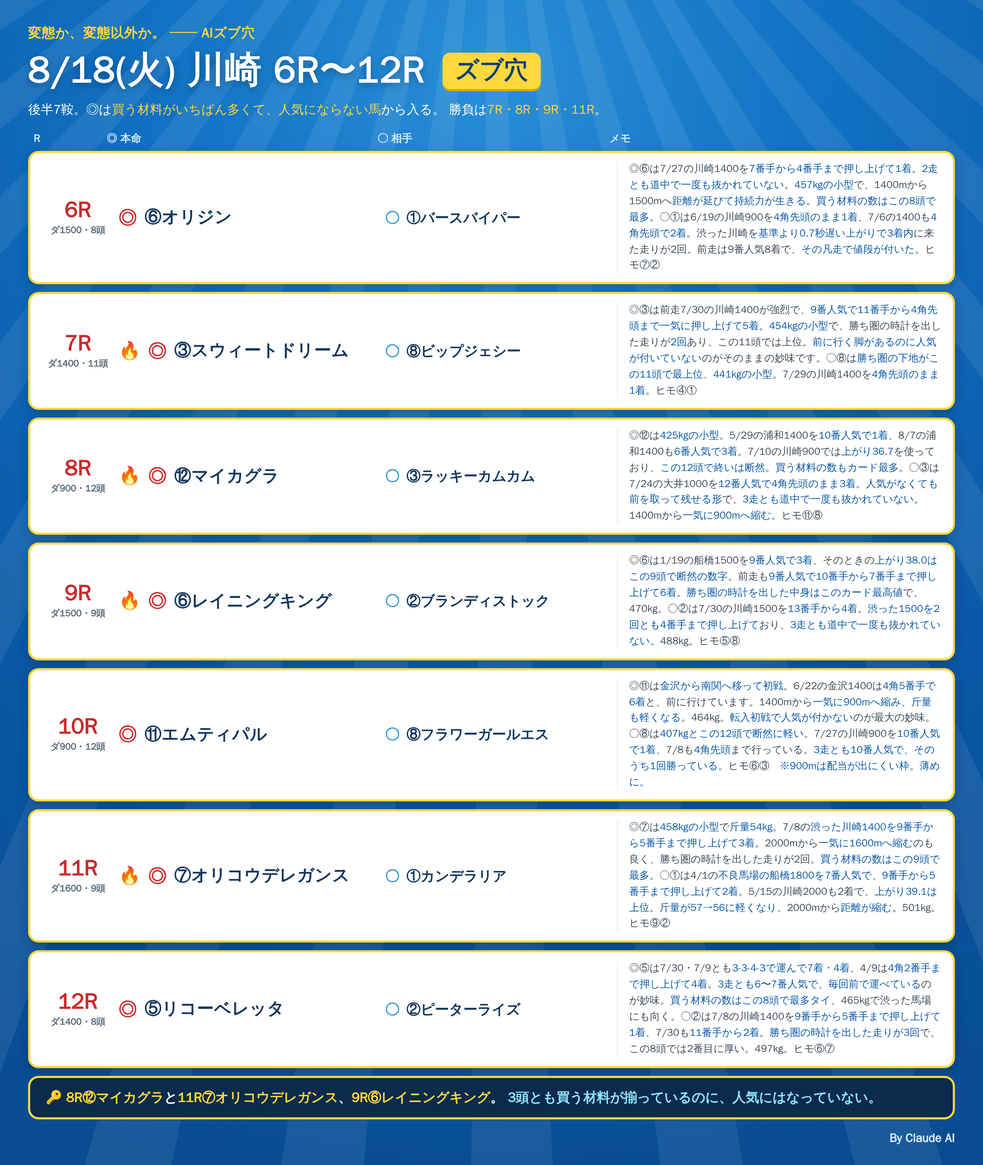
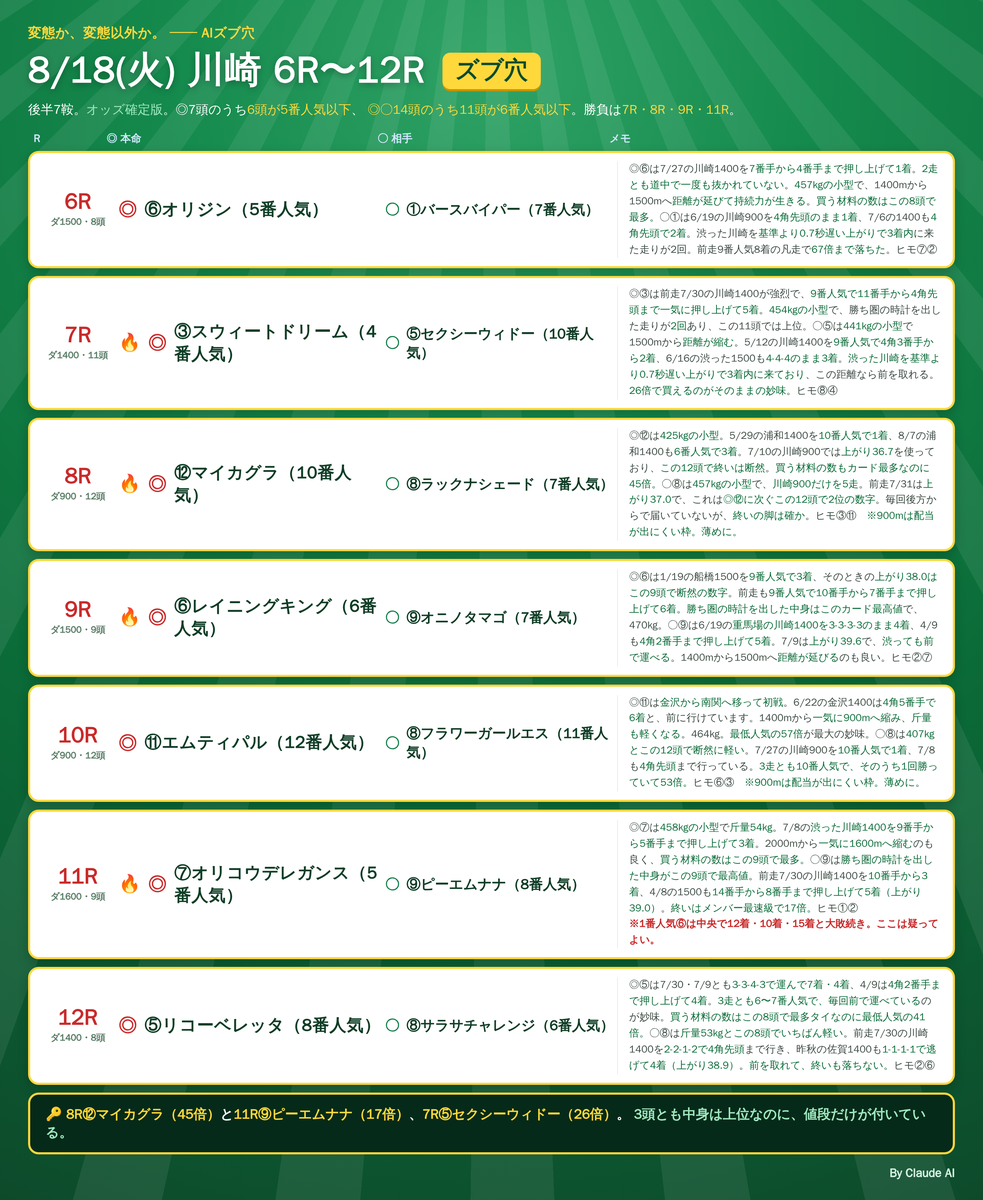
notes: 8/18 川崎 オッズ確定版（後半○を5R差し替え）＋緑テーマに統一
Claude-Session: https://claude.ai/code/session_01RoHscZkr96FNaxQWvUqgEw

diff --git a/notes/live/2026-08-18/kawasaki_triple_umatan.html b/notes/live/2026-08-18/kawasaki_triple_umatan.html
@@ -1,19 +1,19 @@
 <!doctype html><html><head><meta charset="utf-8"><style>
   * { margin:0; padding:0; box-sizing:border-box; font-family:'WenQuanYi Zen Hei',sans-serif; }
-  body { background:#0a1b2e; padding:0; }
-  .card { width:1300px; background:#0f1f33; overflow:hidden; }
-  .brand { background:linear-gradient(90deg,#ff9e64,#ffd54a,#7ee0a0); color:#0f1f33; font-weight:900; font-size:22px; letter-spacing:1px; padding:16px 34px; }
+  body { background:#072418; padding:0; }
+  .card { width:1300px; background:#0c2e1d; overflow:hidden; }
+  .brand { background:linear-gradient(90deg,#ff9e64,#ffd54a,#7ee0a0); color:#0c2e1d; font-weight:900; font-size:22px; letter-spacing:1px; padding:16px 34px; }
   .head { padding:22px 34px 4px; }
   .title { color:#ffd54a; font-size:34px; font-weight:900; }
-  .title .r{color:#ff9e64;} .title .badge{display:inline-block;background:#17304a;color:#7ee0a0;font-size:15px;font-weight:800;padding:4px 12px;border-radius:14px;vertical-align:middle;margin-left:12px;}
-  .sub { color:#9db4cf; font-size:17px; margin-top:8px; } .sub b{color:#e8f0fa;}
-  .bias { display:inline-block; margin-top:10px; background:#13283a; border:1px solid #2a4560; border-radius:10px; padding:8px 15px; color:#bfe6f0; font-size:15px; }
+  .title .r{color:#ff9e64;} .title .badge{display:inline-block;background:#124030;color:#7ee0a0;font-size:15px;font-weight:800;padding:4px 12px;border-radius:14px;vertical-align:middle;margin-left:12px;}
+  .sub { color:#9dcfb4; font-size:17px; margin-top:8px; } .sub b{color:#e8f0fa;}
+  .bias { display:inline-block; margin-top:10px; background:#103525; border:1px solid #2a6045; border-radius:10px; padding:8px 15px; color:#bfe6f0; font-size:15px; }
   .bias b{color:#ffd54a;} .bias .g{color:#7ee0a0;}
 
-  .race { margin:14px 34px 0; border-left:5px solid #24384f; padding:4px 0 4px 22px; }
+  .race { margin:14px 34px 0; border-left:5px solid #24503a; padding:4px 0 4px 22px; }
   .race.r10{border-left-color:#ffd54a;} .race.r11{border-left-color:#5cc8e0;} .race.r12{border-left-color:#ffd54a;}
   .rh { display:flex; align-items:baseline; gap:12px; }
-  .rn { color:#e8f0fa; font-size:24px; font-weight:900; } .rd { color:#9db4cf; font-size:15px; }
+  .rn { color:#e8f0fa; font-size:24px; font-weight:900; } .rd { color:#9dcfb4; font-size:15px; }
   .rbadge { margin-left:auto; font-size:14px; font-weight:800; padding:4px 12px; border-radius:13px; background:rgba(126,224,160,.16); color:#7ee0a0; }
   .line { display:flex; align-items:center; gap:14px; margin-top:10px; }
   .tag { flex:0 0 128px; font-size:15px; font-weight:900; }
@@ -22,83 +22,83 @@
   .chip { display:flex; align-items:center; gap:9px; padding:8px 15px; border-radius:11px; }
   .chip .no { font-size:18px; font-weight:900; min-width:26px; text-align:center; }
   .chip .nm { font-size:19px; font-weight:800; color:#e8f0fa; }
-  .chip .meta { font-size:13.5px; color:#9db4cf; }
+  .chip .meta { font-size:13.5px; color:#9dcfb4; }
   .honmei { background:#3a2a12; border:2px solid #ffb454; } .honmei .no{color:#ffd54a;}
   .hoken { background:transparent; border:2px dashed #d05a72; } .hoken .no{color:#ff8fa0;} .hoken .meta{color:#e8a8b4;}
-  .aite { background:#14273b; border:1px solid #274058; } .aite .no{color:#5cc8e0;}
+  .aite { background:#123524; border:1px solid #275840; } .aite .no{color:#5cc8e0;}
   .aite.ana { border-color:#ff9e64; } .aite.ana .meta{color:#ffc79a;}
-  .rc { color:#9db4cf; font-size:14px; margin:8px 0 2px; line-height:1.5; } .rc b{color:#ffd54a;} .rc .o{color:#ff9e64;}
+  .rc { color:#9dcfb4; font-size:14px; margin:8px 0 2px; line-height:1.5; } .rc b{color:#ffd54a;} .rc .o{color:#ff9e64;}
 
   .buys { display:flex; gap:22px; margin:20px 34px 0; }
   .buy { flex:1; border-radius:14px; padding:16px 22px; }
-  .buy.hon { background:#13283a; border:1px solid #2a4560; }
+  .buy.hon { background:#103525; border:1px solid #2a6045; }
   .buy.hok { background:#241624; border:1px dashed #d05a72; }
   .buy .bt { font-size:18px; font-weight:900; } .buy.hon .bt{color:#ffd54a;} .buy.hok .bt{color:#ff8fa0;}
   .buy .bl { color:#e8f0fa; font-size:20px; font-weight:800; margin-top:9px; letter-spacing:.5px; line-height:1.6; }
   .buy .bl .a{color:#ffd54a;} .buy .bl .s{color:#5cc8e0;}
-  .buy .bn { color:#9db4cf; font-size:13.5px; margin-top:7px; } .buy .bn b{color:#7ee0a0;}
-  .foot { display:flex; justify-content:space-between; align-items:center; margin-top:18px; padding:14px 34px; background:#0a1626; color:#5f7590; font-size:14px; }
-  .foot b { color:#9db4cf; }
+  .buy .bn { color:#9dcfb4; font-size:13.5px; margin-top:7px; } .buy .bn b{color:#7ee0a0;}
+  .foot { display:flex; justify-content:space-between; align-items:center; margin-top:18px; padding:14px 34px; background:#08241a; color:#6b9080; font-size:14px; }
+  .foot b { color:#9dcfb4; }
 </style></head><body>
 <div class="card">
   <div class="brand">変態か、変態以外か。 ── トリプル馬単（ズブ穴◎ ＋ 前残り保険）</div>
   <div class="head">
     <div class="title">川崎 8/18(火) ／ トリプル馬単 <span class="r">10R→11R→12R</span> <span class="badge">キャリー中</span></div>
-    <div class="sub"><b>1着本命＝人気薄で前を取れる馬</b>／<b>1着保険＝実力軸1位の堅い側</b>／2着は手広く。</div>
-    <div class="bias">⚠ <b>オッズ未開放</b>・想定良。<span class="g">1着本命＝前回開催と同じ「実力軸で下位（＝人気を被らない）× 買う材料が最多 × 下地・小型」で選定。参考：前回の川崎は48レース中40レースで4角3番手以内の馬が勝った（83%）。</span></div>
+    <div class="sub"><b>1着本命＝買う材料が最多で人気にならない馬</b>／<b>1着保険＝1〜2番人気の堅い側</b>／2着は手広く。</div>
+    <div class="bias">✅ <b>オッズ確定版</b>・想定良。<span class="g">1着本命3頭は <b>12番人気(57.9倍)／5番人気(10.0倍)／8番人気(41.4倍)</b>。参考：前回の川崎は48レース中40レースで4角3番手以内の馬が勝った（83%）。</span></div>
   </div>
 
   <div class="race r10">
-    <div class="rh"><span class="rn">10R</span><span class="rd">ダ900 ・ 12頭　紅蓮賞 Ｃ１選定馬</span><span class="rbadge">◎軸⑪エムティパル（買う材料が12頭で最多タイ・転入初戦）</span></div>
+    <div class="rh"><span class="rn">10R</span><span class="rd">ダ900 ・ 12頭　紅蓮賞 Ｃ１選定馬</span><span class="rbadge">◎軸⑪エムティパル（12番人気・57.9倍）</span></div>
     <div class="line"><div class="tag"><span class="t1">1着 本命</span></div><div class="chips">
       <div class="chip honmei"><span class="no">11</span><span class="nm">エムティパル</span><span class="meta">エッジ4で12頭最多タイ・464kg・斤量減・1400→900の大幅短縮／<b>金沢から南関へ移って初戦＝人気が付かない</b></span></div></div></div>
     <div class="line"><div class="tag"><span class="t2">1着 保険</span></div><div class="chips">
-      <div class="chip hoken"><span class="no">3</span><span class="nm">エースクイーン</span><span class="meta">3走とも1番人気（1着・3着・1着）・443kgの小型・4角先頭＝堅い側の保険</span></div></div></div>
+      <div class="chip hoken"><span class="no">2</span><span class="nm">アタゴテンジン</span><span class="meta"><b>1番人気2.9倍</b>・3走とも4角先頭（2着・3着・1着）＝堅い側の保険</span></div></div></div>
     <div class="line"><div class="tag"><span class="t3">2着 →</span></div><div class="chips">
-      <div class="chip aite ana"><span class="no">8</span><span class="nm">フラワーガールエス</span><span class="meta">407kg＝12頭で断然に軽い・斤53kg／7/27を<b>10番人気で1着</b>・3走とも10番人気</span></div>
-      <div class="chip aite ana"><span class="no">6</span><span class="nm">キョウエイハゴロモ</span><span class="meta">7/27を9番人気で4角先頭から3着・減量51kgで最軽量斤量</span></div>
-      <div class="chip aite"><span class="no">5</span><span class="nm">クレイスアバンティ</span><span class="meta">439kg・減量51kg・実力軸6位</span></div>
-      <div class="chip aite"><span class="no">4</span><span class="nm">プレストヴィーナス</span><span class="meta">436kgの小型・3走とも4角2番手以内</span></div></div></div>
+      <div class="chip aite ana"><span class="no">8</span><span class="nm">フラワーガールエス</span><span class="meta"><b>11番人気53.8倍</b>・407kg＝12頭で断然に軽い・斤53kg／7/27を<b>10番人気で1着</b></span></div>
+      <div class="chip aite ana"><span class="no">6</span><span class="nm">キョウエイハゴロモ</span><span class="meta"><b>10番人気35.0倍</b>・7/27を9番人気で4角先頭から3着・減量51kg</span></div>
+      <div class="chip aite"><span class="no">5</span><span class="nm">クレイスアバンティ</span><span class="meta">5番人気9.1倍・439kg・減量51kg</span></div>
+      <div class="chip aite"><span class="no">3</span><span class="nm">エースクイーン</span><span class="meta">2番人気3.5倍・3走とも1番人気で1着3着1着・443kgの小型</span></div></div></div>
     <div class="rc">⑪は<b>転入初戦で人気が付かないのが最大の妙味</b>だが、中身は薄い。<span class="o">2着筆頭の⑧は3走とも10番人気で、そのうち1回勝っている</span>＝900mでいちばん配当になる形なので、<b>⑪→⑧と⑧→⑪の両にらみでよい</b>。保険は3走とも1番人気の③。</div>
   </div>
 
   <div class="race r11">
-    <div class="rh"><span class="rn">11R</span><span class="rd">ダ1600 ・ 9頭　涼風特別 Ｂ２二</span><span class="rbadge">◎軸⑦オリコウデレガンス（買う材料が9頭で最多・458kgの小型）</span></div>
+    <div class="rh"><span class="rn">11R</span><span class="rd">ダ1600 ・ 9頭　涼風特別 Ｂ２二</span><span class="rbadge">◎軸⑦オリコウデレガンス（5番人気・10.0倍）</span></div>
     <div class="line"><div class="tag"><span class="t1">1着 本命</span></div><div class="chips">
       <div class="chip honmei"><span class="no">7</span><span class="nm">オリコウデレガンス</span><span class="meta">エッジ7で9頭最多・下地8.0本物2・458kgの小型・斤54kg／7/8の渋った1400を9番手から5番手まで押し上げて3着・2000→1600の短縮</span></div></div></div>
     <div class="line"><div class="tag"><span class="t2">1着 保険</span></div><div class="chips">
       <div class="chip hoken"><span class="no">3</span><span class="nm">スカイアクロス</span><span class="meta">実力軸1位45.1%・前走7/30の同コースを4角5番手から2着＝堅い側の保険</span></div></div></div>
     <div class="line"><div class="tag"><span class="t3">2着 →</span></div><div class="chips">
-      <div class="chip aite ana"><span class="no">1</span><span class="nm">カンデラリア</span><span class="meta">エッジ6・下地9.2本物2／4/1の不良の船橋1800を<b>7番人気で2着</b>・斤57→56</span></div>
-      <div class="chip aite ana"><span class="no">9</span><span class="nm">ピーエムナナ</span><span class="meta">下地9.8＝<b>9頭で最高値</b>・本物2・461kg</span></div>
-      <div class="chip aite ana"><span class="no">8</span><span class="nm">デアシュトゥルム</span><span class="meta">3走とも4角先頭・6/19を9番人気3着・実力軸5位</span></div>
-      <div class="chip aite"><span class="no">2</span><span class="nm">ハナノウタゲ</span><span class="meta">本物3＝9頭で最多・下地7.8・521kg</span></div></div></div>
-    <div class="rc">⑦は<b>エッジ7でカード最多、下地も本物2で最上位級</b>。2000mからの大幅短縮と斤54kgが後押し。<span class="o">保険は実力軸1位45.1%の③</span>。2着は下地の厚い①⑨を厚く。</div>
+      <div class="chip aite ana"><span class="no">9</span><span class="nm">ピーエムナナ</span><span class="meta"><b>8番人気17.2倍</b>・下地9.8＝<b>9頭で最高値</b>／7/30を10番手から3着・4/8は14番手から8番手まで押し上げ5着</span></div>
+      <div class="chip aite ana"><span class="no">1</span><span class="nm">カンデラリア</span><span class="meta">4番人気8.8倍・エッジ6・下地9.2本物2／4/1の不良の船橋1800を<b>7番人気で2着</b></span></div>
+      <div class="chip aite ana"><span class="no">8</span><span class="nm">デアシュトゥルム</span><span class="meta"><b>7番人気14.9倍</b>・3走とも4角先頭・6/19を9番人気3着</span></div>
+      <div class="chip aite"><span class="no">4</span><span class="nm">エレファントラン</span><span class="meta">3番人気4.4倍・3走とも4角3番手以内・下地5.7本物2</span></div></div></div>
+    <div class="rc">⑦は<b>エッジ7でカード最多、下地も本物2で最上位級</b>。2000mからの大幅短縮と斤54kgが後押しで10.0倍。<span class="o">保険は2番人気の③</span>。<b class="o">1番人気⑥オペラプラージュは中央で12着・10着・15着と大敗続きの転入初戦で2.9倍＝ここは疑ってよい。</b></div>
   </div>
 
   <div class="race r12">
-    <div class="rh"><span class="rn">12R</span><span class="rd">ダ1400 ・ 8頭　凌霄花特別 Ｂ３一二三</span><span class="rbadge">◎軸⑤リコーベレッタ（毎回6〜7番人気で前を取れる）</span></div>
+    <div class="rh"><span class="rn">12R</span><span class="rd">ダ1400 ・ 8頭　凌霄花特別 Ｂ３一二三</span><span class="rbadge">◎軸⑤リコーベレッタ（8番人気＝最低人気・41.4倍）</span></div>
     <div class="line"><div class="tag"><span class="t1">1着 本命</span></div><div class="chips">
-      <div class="chip honmei"><span class="no">5</span><span class="nm">リコーベレッタ</span><span class="meta">465kg・買う材料は8頭で最多タイ／7/30・7/9とも3-3-4-3で運び、4/9は4角2番手まで押し上げ。<b>3走とも6〜7番人気</b></span></div></div></div>
+      <div class="chip honmei"><span class="no">5</span><span class="nm">リコーベレッタ</span><span class="meta"><b>8番人気＝最低人気の41.4倍</b>・465kg・買う材料は8頭で最多タイ／7/30・7/9とも3-3-4-3で運び、4/9は4角2番手まで押し上げ</span></div></div></div>
     <div class="line"><div class="tag"><span class="t2">1着 保険</span></div><div class="chips">
-      <div class="chip hoken"><span class="no">6</span><span class="nm">ジーティーアグリム</span><span class="meta"><b>3連勝中</b>・勝ち圏の下地が8頭で断然・4角先頭・道中で一度も抜かれていない＝堅い側の保険</span></div></div></div>
+      <div class="chip hoken"><span class="no">6</span><span class="nm">ジーティーアグリム</span><span class="meta"><b>1番人気2.5倍・3連勝中</b>・下地10.4本物4で8頭断然・4角先頭・道中で一度も抜かれていない＝堅い側の保険</span></div></div></div>
     <div class="line"><div class="tag"><span class="t3">2着 →</span></div><div class="chips">
-      <div class="chip aite ana"><span class="no">2</span><span class="nm">ピーターライズ</span><span class="meta">エッジ5・下地9.6本物3＝8頭で2番目に厚い／7/8を9番手から1着・7/30も11番手から2着</span></div>
-      <div class="chip aite ana"><span class="no">7</span><span class="nm">ナリノエンブレム</span><span class="meta">3走とも4角先頭で一度も抜かれず・上がりのブレ1.20が小さい</span></div>
-      <div class="chip aite ana"><span class="no">8</span><span class="nm">サラサチャレンジ</span><span class="meta">前走8番人気・4角先頭経験・斤53kg＝最大妙味</span></div>
-      <div class="chip aite"><span class="no">3</span><span class="nm">トウマ</span><span class="meta">464kg・下地4.9・3走とも掲示板圏内</span></div></div></div>
+      <div class="chip aite ana"><span class="no">8</span><span class="nm">サラサチャレンジ</span><span class="meta"><b>6番人気16.3倍</b>・斤53kgで8頭最軽量／7/30を2-2-1-2で4角先頭・昨秋の佐賀1400は逃げて4着（上がり38.9）</span></div>
+      <div class="chip aite ana"><span class="no">2</span><span class="nm">ピーターライズ</span><span class="meta">2番人気3.1倍・エッジ5・下地9.6本物3＝8頭で2番目／7/8を9番手から1着</span></div>
+      <div class="chip aite ana"><span class="no">7</span><span class="nm">ナリノエンブレム</span><span class="meta">3番人気6.5倍・3走とも4角先頭で一度も抜かれず・ブレ1.20</span></div>
+      <div class="chip aite"><span class="no">3</span><span class="nm">トウマ</span><span class="meta">4番人気7.0倍・464kg・下地4.9・3走とも掲示板圏内</span></div></div></div>
     <div class="rc">⑤は<b>毎回6〜7番人気なのに、毎回前で運べている</b>のが妙味。<span class="o">保険は3連勝中で下地断然の⑥</span>。8頭立てなので2着は絞りやすい。</div>
   </div>
 
   <div class="buys">
     <div class="buy hon"><div class="bt">▶ 本線（1着2頭 × 2着3頭）</div>
-      <div class="bl">10R <span class="a">⑪③</span>→<span class="s">⑧⑥⑤</span> ／ 11R <span class="a">⑦③</span>→<span class="s">①⑨⑧</span> ／ 12R <span class="a">⑤⑥</span>→<span class="s">②⑦⑧</span></div>
+      <div class="bl">10R <span class="a">⑪②</span>→<span class="s">⑧⑥③</span> ／ 11R <span class="a">⑦③</span>→<span class="s">⑨①⑧</span> ／ 12R <span class="a">⑤⑥</span>→<span class="s">⑧②⑦</span></div>
       <div class="bn">6×6×6＝<b>216点・10,800円</b>。1着を◎＋保険の2頭に割り、2着を3頭で受ける標準形（トリプル馬単は1点50円）。</div></div>
     <div class="buy hok"><div class="bt">▶ 絞り／総取り</div>
       <div class="bl">絞り 1着を<span class="a">⑪・⑦・⑤</span>に固定 → 3×3×3＝<span class="a">27点・1,350円</span><br>総取り 8×8×8＝<span class="a">512点・25,600円</span>（2着を各4頭）</div>
-      <div class="bn">10Rは900mで<b>配当が出にくい枠</b>（前回開催は人気薄62頭で3着内4頭）。絞るなら<b>10Rの1着を⑪⑧の2頭に組み替える</b>（⑧は3走とも10番人気で1勝）のが実務的。11R・12Rは2着を4頭まで広げてよい。</div></div>
+      <div class="bn">10Rは900mで<b>配当が出にくい枠</b>（前回開催は人気薄62頭で3着内4頭）。<b>10Rは⑪(57.9倍)と⑧(53.8倍)がどちらも2桁人気</b>。絞るなら1着を⑪⑧の2頭に組み替えるのが実務的。11R・12Rは2着を4頭まで広げてよい。</div></div>
   </div>
 
-  <div class="foot"><span>川崎 8/18 トリプル馬単 10R→11R→12R ／ 1着本命＝人気薄で前を取れる馬・1着保険＝実力軸1位</span><span><b>By Claude AI</b></span></div>
+  <div class="foot"><span>川崎 8/18 トリプル馬単 10R→11R→12R ／ オッズ確定版・1着本命＝12番人気/5番人気/8番人気</span><span><b>By Claude AI</b></span></div>
 </div>
 </body></html>

diff --git a/notes/live/2026-08-18/kawasaki_6_12.html b/notes/live/2026-08-18/kawasaki_6_12.html
@@ -1,8 +1,8 @@
 <!doctype html><html><head><meta charset="utf-8"><style>
   * { margin:0; padding:0; box-sizing:border-box; font-family:'WenQuanYi Zen Hei',sans-serif; }
-  body { background:#0a4f96; }
+  body { background:#0d4a2b; }
   .card { width:1400px; position:relative; overflow:hidden;
-          background:radial-gradient(circle at 50% 6%, #2a8fd8 0%, #1173c4 26%, #0a58a6 62%, #084b90 100%); padding:34px 40px 26px; }
+          background:radial-gradient(circle at 50% 6%, #2fa365 0%, #158a4d 26%, #0b6b38 62%, #0d4a2b 100%); padding:34px 40px 26px; }
   .rays { position:absolute; inset:-40% -10% -10% -10%; pointer-events:none;
           background:repeating-conic-gradient(from 0deg at 50% 10%,
             rgba(255,255,255,.075) 0deg 3.2deg, rgba(255,255,255,0) 3.2deg 7.4deg); }
@@ -12,9 +12,9 @@
   .titleline { position:relative; display:flex; align-items:center; margin-top:6px; }
   .titleline .bdg { position:absolute; left:50%; transform:translateX(-50%); }
   .title { color:#fff; font-size:52px; font-weight:900; letter-spacing:1px; text-shadow:0 3px 10px rgba(0,0,0,.28); }
-  .bdg { background:#ffd83b; color:#0a3f78; font-size:34px; font-weight:900; padding:3px 18px; border-radius:11px; box-shadow:0 3px 0 #d9a800; }
+  .bdg { background:#ffd83b; color:#0d4a2b; font-size:34px; font-weight:900; padding:3px 18px; border-radius:11px; box-shadow:0 3px 0 #c99400; }
   .lead { color:#fff; font-size:18px; font-weight:700; margin-top:9px; }
-  .lead .y{color:#ffd83b;} .lead .c{color:#8fe3ff;}
+  .lead .y{color:#ffd83b;} .lead .c{color:#9fe8bf;}
 
   .cols { display:flex; margin:20px 0 7px; padding:0 8px; color:#cfe8ff; font-size:15px; font-weight:800; }
   .cR{flex:0 0 104px;} .cH{flex:0 0 386px;} .cA{flex:0 0 330px;} .cM{flex:1;}
@@ -23,22 +23,23 @@
          margin-bottom:11px; padding:12px 16px; box-shadow:0 6px 16px rgba(0,0,0,.2); }
   .rN { flex:0 0 104px; display:flex; flex-direction:column; justify-content:center; align-items:center; }
   .rN .n { color:#c92a2a; font-size:31px; font-weight:900; line-height:1; }
-  .rN .d { color:#5a6b7d; font-size:13px; font-weight:800; margin-top:4px; }
+  .rN .d { color:#5a7d68; font-size:13px; font-weight:800; margin-top:4px; }
   .hm { flex:0 0 386px; display:flex; align-items:center; gap:11px; padding-left:6px; }
   .at { flex:0 0 330px; display:flex; align-items:center; gap:10px; }
   .mk { font-size:26px; font-weight:900; color:#c92a2a; }
-  .mk2 { font-size:20px; font-weight:900; color:#1b8fd0; }
-  .nm { font-size:24px; font-weight:900; color:#10375e; letter-spacing:.5px; }
-  .nm2 { font-size:20px; font-weight:900; color:#10375e; }
+  .mk2 { font-size:20px; font-weight:900; color:#0b7a45; }
+  .nm { font-size:24px; font-weight:900; color:#0f3d26; letter-spacing:.5px; }
+  .nm2 { font-size:20px; font-weight:900; color:#0f3d26; }
   .fire { font-size:25px; }
-  .memo { flex:1; color:#3c4a58; font-size:14.5px; line-height:1.58; padding-left:16px; border-left:1px solid #dfe8f0; align-self:center; }
-  .memo b { color:#0a58a6; } .memo .r { color:#c92a2a; font-weight:900; }
+  .memo { flex:1; color:#3c4a42; font-size:14.5px; line-height:1.58; padding-left:16px; border-left:1px solid #dfefe6; align-self:center; }
+  .memo b { color:#0b6b38; } .memo .r { color:#c92a2a; font-weight:900; }
 
-  .foot { margin-top:6px; background:#0b2b4d; border:3px solid #ffd83b; border-radius:15px;
+  .foot { margin-top:6px; background:#062a19; border:3px solid #ffd83b; border-radius:15px;
           padding:15px 22px; color:#fff; font-size:19px; font-weight:800; }
-  .foot .y{color:#ffd83b;} .foot .c{color:#8fe3ff;}
-  .sig { text-align:right; color:#dbeaf7; font-size:17px; font-weight:800; margin-top:16px; }
+  .foot .y{color:#ffd83b;} .foot .c{color:#9fe8bf;}
+  .sig { text-align:right; color:#d6f2e2; font-size:17px; font-weight:800; margin-top:16px; }
 </style></head>
+
 <body>
 <div class="card"><div class="rays"></div><div class="inner">
   <div class="kicker">変態か、変態以外か。 ── AIズブ穴</div>
@@ -46,62 +47,62 @@
     <div class="title">8/18(火) 川崎 6R〜12R</div>
     <div class="bdg">ズブ穴</div>
   </div>
-  <div class="lead">後半7鞍。◎は<span class="y">買う材料がいちばん多くて、人気にならない馬</span>から入る。
-  勝負は<span class="y">7R・8R・9R・11R</span>。</div>
+  <div class="lead">後半7鞍。<span class="c">オッズ確定版</span>。◎7頭のうち<span class="y">6頭が5番人気以下</span>、
+  <span class="y">◎○14頭のうち11頭が6番人気以下</span>。勝負は<span class="y">7R・8R・9R・11R</span>。</div>
 
   <div class="cols"><div class="cR">R</div><div class="cH">◎ 本命</div><div class="cA">○ 相手</div><div class="cM">メモ</div></div>
 
   <div class="row">
     <div class="rN"><div class="n">6R</div><div class="d">ダ1500・8頭</div></div>
-    <div class="hm"><span class="mk">◎</span><span class="nm">⑥オリジン</span></div>
-    <div class="at"><span class="mk2">○</span><span class="nm2">①バースバイパー</span></div>
-    <div class="memo">◎⑥は7/27の川崎1400を<b>7番手から4番手まで押し上げて1着</b>。<b>2走とも道中で一度も抜かれていない</b>。<b>457kgの小型</b>で、1400mから1500mへ<b>距離が延びて持続力が生きる</b>。<b>買う材料の数はこの8頭で最多。</b>○①は6/19の川崎900を<b>4角先頭のまま1着</b>、7/6の1400も<b>4角先頭で2着</b>。渋った川崎を<b>基準より0.7秒遅い上がりで3着内</b>に来た走りが2回。前走は9番人気8着で、<b>その凡走で値段が付いた</b>。ヒモ⑦②</div>
+    <div class="hm"><span class="mk">◎</span><span class="nm">⑥オリジン（5番人気）</span></div>
+    <div class="at"><span class="mk2">○</span><span class="nm2">①バースバイパー（7番人気）</span></div>
+    <div class="memo">◎⑥は7/27の川崎1400を<b>7番手から4番手まで押し上げて1着</b>。<b>2走とも道中で一度も抜かれていない</b>。<b>457kgの小型</b>で、1400mから1500mへ<b>距離が延びて持続力が生きる</b>。<b>買う材料の数はこの8頭で最多。</b>○①は6/19の川崎900を<b>4角先頭のまま1着</b>、7/6の1400も<b>4角先頭で2着</b>。渋った川崎を<b>基準より0.7秒遅い上がりで3着内</b>に来た走りが2回。前走9番人気8着の凡走で<b>67倍まで落ちた</b>。ヒモ⑦②</div>
   </div>
 
   <div class="row">
     <div class="rN"><div class="n">7R</div><div class="d">ダ1400・11頭</div></div>
-    <div class="hm"><span class="fire">🔥</span><span class="mk">◎</span><span class="nm">③スウィートドリーム</span></div>
-    <div class="at"><span class="mk2">○</span><span class="nm2">⑧ビップジェシー</span></div>
-    <div class="memo">◎③は前走7/30の川崎1400が強烈で、<b>9番人気で11番手から4角先頭まで一気に押し上げて5着</b>。<b>454kgの小型</b>で、勝ち圏の時計を出した走りが<b>2回</b>あり、この11頭では上位。<b>前に行く脚があるのに人気が付いていない</b>のがそのままの妙味です。○⑧は<b>勝ち圏の下地がこの11頭で最上位</b>、<b>441kgの小型</b>。7/29の川崎1400を<b>4角先頭のまま1着</b>。ヒモ④①</div>
+    <div class="hm"><span class="fire">🔥</span><span class="mk">◎</span><span class="nm">③スウィートドリーム（4番人気）</span></div>
+    <div class="at"><span class="mk2">○</span><span class="nm2">⑤セクシーウィドー（10番人気）</span></div>
+    <div class="memo">◎③は前走7/30の川崎1400が強烈で、<b>9番人気で11番手から4角先頭まで一気に押し上げて5着</b>。<b>454kgの小型</b>で、勝ち圏の時計を出した走りが<b>2回</b>あり、この11頭では上位。○⑤は<b>441kgの小型</b>で1500mから<b>距離が縮む</b>。5/12の川崎1400を<b>9番人気で4角3番手から2着</b>、6/16の渋った1500も<b>4-4-4のまま3着</b>。<b>渋った川崎を基準より0.7秒遅い上がりで3着内に来ており</b>、この距離なら前を取れる。<b>26倍で買えるのがそのままの妙味。</b>ヒモ⑧④</div>
   </div>
 
   <div class="row">
     <div class="rN"><div class="n">8R</div><div class="d">ダ900・12頭</div></div>
-    <div class="hm"><span class="fire">🔥</span><span class="mk">◎</span><span class="nm">⑫マイカグラ</span></div>
-    <div class="at"><span class="mk2">○</span><span class="nm2">③ラッキーカムカム</span></div>
-    <div class="memo">◎⑫は<b>425kgの小型</b>。5/29の浦和1400を<b>10番人気で1着</b>、8/7の浦和1400も<b>6番人気で3着</b>。7/10の川崎900では<b>上がり36.7</b>を使っており、<b>この12頭で終いは断然</b>。<b>買う材料の数もカード最多。</b>○③は7/24の大井1000を<b>12番人気で4角先頭のまま3着</b>。<b>人気がなくても前を取って残せる形</b>で、<b>3走とも道中で一度も抜かれていない</b>。1400mから<b>一気に900mへ縮む</b>。ヒモ⑪⑧</div>
+    <div class="hm"><span class="fire">🔥</span><span class="mk">◎</span><span class="nm">⑫マイカグラ（10番人気）</span></div>
+    <div class="at"><span class="mk2">○</span><span class="nm2">⑧ラックナシェード（7番人気）</span></div>
+    <div class="memo">◎⑫は<b>425kgの小型</b>。5/29の浦和1400を<b>10番人気で1着</b>、8/7の浦和1400も<b>6番人気で3着</b>。7/10の川崎900では<b>上がり36.7</b>を使っており、<b>この12頭で終いは断然</b>。<b>買う材料の数もカード最多なのに45倍。</b>○⑧は<b>457kgの小型</b>で、<b>川崎900だけを5走</b>。前走7/31は<b>上がり37.0</b>で、これは<b>◎⑫に次ぐこの12頭で2位の数字</b>。毎回後方からで届いていないが、<b>終いの脚は確か</b>。ヒモ③⑪　<b>※900mは配当が出にくい枠。薄めに。</b></div>
   </div>
 
   <div class="row">
     <div class="rN"><div class="n">9R</div><div class="d">ダ1500・9頭</div></div>
-    <div class="hm"><span class="fire">🔥</span><span class="mk">◎</span><span class="nm">⑥レイニングキング</span></div>
-    <div class="at"><span class="mk2">○</span><span class="nm2">②ブランディストック</span></div>
-    <div class="memo">◎⑥は1/19の船橋1500を<b>9番人気で3着</b>、そのときの<b>上がり38.0はこの9頭で断然の数字</b>。前走も<b>9番人気で10番手から7番手まで押し上げて6着</b>。<b>勝ち圏の時計を出した中身はこのカード最高値</b>で、470kg。○②は7/30の川崎1500を<b>13番手から4着</b>。<b>渋った1500を2回とも4番手まで押し上げて</b>おり、<b>3走とも道中で一度も抜かれていない</b>。488kg。ヒモ⑤⑧</div>
+    <div class="hm"><span class="fire">🔥</span><span class="mk">◎</span><span class="nm">⑥レイニングキング（6番人気）</span></div>
+    <div class="at"><span class="mk2">○</span><span class="nm2">⑨オニノタマゴ（7番人気）</span></div>
+    <div class="memo">◎⑥は1/19の船橋1500を<b>9番人気で3着</b>、そのときの<b>上がり38.0はこの9頭で断然の数字</b>。前走も<b>9番人気で10番手から7番手まで押し上げて6着</b>。<b>勝ち圏の時計を出した中身はこのカード最高値</b>で、470kg。○⑨は6/19の<b>重馬場の川崎1400を3-3-3-3のまま4着</b>、4/9も<b>4角2番手まで押し上げて5着</b>。7/9は<b>上がり39.6</b>で、<b>渋っても前で運べる</b>。1400mから1500mへ<b>距離が延びる</b>のも良い。ヒモ②⑦</div>
   </div>
 
   <div class="row">
     <div class="rN"><div class="n">10R</div><div class="d">ダ900・12頭</div></div>
-    <div class="hm"><span class="mk">◎</span><span class="nm">⑪エムティパル</span></div>
-    <div class="at"><span class="mk2">○</span><span class="nm2">⑧フラワーガールエス</span></div>
-    <div class="memo">◎⑪は<b>金沢から南関へ移って初戦</b>。6/22の金沢1400は<b>4角5番手で6着</b>と、前に行けています。1400mから<b>一気に900mへ縮み、斤量も軽くなる</b>。464kg。<b>転入初戦で人気が付かない</b>のが最大の妙味。○⑧は<b>407kgとこの12頭で断然に軽い</b>。7/27の川崎900を<b>10番人気で1着</b>、7/8も<b>4角先頭</b>まで行っている。<b>3走とも10番人気で、そのうち1回勝っている。</b>ヒモ⑥③　<b>※900mは配当が出にくい枠。薄めに。</b></div>
+    <div class="hm"><span class="mk">◎</span><span class="nm">⑪エムティパル（12番人気）</span></div>
+    <div class="at"><span class="mk2">○</span><span class="nm2">⑧フラワーガールエス（11番人気）</span></div>
+    <div class="memo">◎⑪は<b>金沢から南関へ移って初戦</b>。6/22の金沢1400は<b>4角5番手で6着</b>と、前に行けています。1400mから<b>一気に900mへ縮み、斤量も軽くなる</b>。464kg。<b>最低人気の57倍</b>が最大の妙味。○⑧は<b>407kgとこの12頭で断然に軽い</b>。7/27の川崎900を<b>10番人気で1着</b>、7/8も<b>4角先頭</b>まで行っている。<b>3走とも10番人気で、そのうち1回勝っていて53倍。</b>ヒモ⑥③　<b>※900mは配当が出にくい枠。薄めに。</b></div>
   </div>
 
   <div class="row">
     <div class="rN"><div class="n">11R</div><div class="d">ダ1600・9頭</div></div>
-    <div class="hm"><span class="fire">🔥</span><span class="mk">◎</span><span class="nm">⑦オリコウデレガンス</span></div>
-    <div class="at"><span class="mk2">○</span><span class="nm2">①カンデラリア</span></div>
-    <div class="memo">◎⑦は<b>458kgの小型</b>で<b>斤量54kg</b>。7/8の<b>渋った川崎1400を9番手から5番手まで押し上げて3着</b>。2000mから<b>一気に1600mへ縮む</b>のも良く、勝ち圏の時計を出した走りが2回。<b>買う材料の数はこの9頭で最多。</b>○①は4/1の<b>不良馬場の船橋1800を7番人気で、9番手から5番手まで押し上げて2着</b>。5/15の川崎2000も2着で、<b>上がり39.1は上位</b>。<b>斤量が57→56に軽くなり</b>、2000mから<b>距離が縮む</b>。501kg。ヒモ⑨②</div>
+    <div class="hm"><span class="fire">🔥</span><span class="mk">◎</span><span class="nm">⑦オリコウデレガンス（5番人気）</span></div>
+    <div class="at"><span class="mk2">○</span><span class="nm2">⑨ピーエムナナ（8番人気）</span></div>
+    <div class="memo">◎⑦は<b>458kgの小型</b>で<b>斤量54kg</b>。7/8の<b>渋った川崎1400を9番手から5番手まで押し上げて3着</b>。2000mから<b>一気に1600mへ縮む</b>のも良く、<b>買う材料の数はこの9頭で最多。</b>○⑨は<b>勝ち圏の時計を出した中身がこの9頭で最高値</b>。前走7/30の川崎1400を<b>10番手から3着</b>、4/8の1500も<b>14番手から8番手まで押し上げて5着（上がり39.0）</b>。<b>終いはメンバー最速級で17倍。</b>ヒモ①②<br><b class='r'>※1番人気⑥は中央で12着・10着・15着と大敗続き。ここは疑ってよい。</b></div>
   </div>
 
   <div class="row">
     <div class="rN"><div class="n">12R</div><div class="d">ダ1400・8頭</div></div>
-    <div class="hm"><span class="mk">◎</span><span class="nm">⑤リコーベレッタ</span></div>
-    <div class="at"><span class="mk2">○</span><span class="nm2">②ピーターライズ</span></div>
-    <div class="memo">◎⑤は7/30・7/9とも<b>3-3-4-3で運んで7着・4着</b>、4/9は<b>4角2番手まで押し上げて4着</b>。<b>3走とも6〜7番人気で、毎回前で運べている</b>のが妙味。<b>買う材料の数はこの8頭で最多タイ</b>、465kgで渋った馬場にも向く。○②は7/8の川崎1400を<b>9番手から5番手まで押し上げて1着</b>、7/30も<b>11番手から2着</b>。<b>勝ち圏の時計を出した走りが3回</b>で、この8頭では2番目に厚い。497kg。ヒモ⑥⑦</div>
+    <div class="hm"><span class="mk">◎</span><span class="nm">⑤リコーベレッタ（8番人気）</span></div>
+    <div class="at"><span class="mk2">○</span><span class="nm2">⑧サラサチャレンジ（6番人気）</span></div>
+    <div class="memo">◎⑤は7/30・7/9とも<b>3-3-4-3で運んで7着・4着</b>、4/9は<b>4角2番手まで押し上げて4着</b>。<b>3走とも6〜7番人気で、毎回前で運べている</b>のが妙味。<b>買う材料の数はこの8頭で最多タイなのに最低人気の41倍。</b>○⑧は<b>斤量53kgとこの8頭でいちばん軽い</b>。前走7/30の川崎1400を<b>2-2-1-2で4角先頭</b>まで行き、昨秋の佐賀1400も<b>1-1-1-1で逃げて4着（上がり38.9）</b>。<b>前を取れて、終いも落ちない。</b>ヒモ②⑥</div>
   </div>
 
-  <div class="foot">🔑 <span class="y">8R⑫マイカグラ</span>と<span class="y">11R⑦オリコウデレガンス</span>、<span class="y">9R⑥レイニングキング</span>。
-  <span class="c">3頭とも買う材料が揃っているのに、人気にはなっていない。</span></div>
+  <div class="foot">🔑 <span class="y">8R⑫マイカグラ（45倍）</span>と<span class="y">11R⑨ピーエムナナ（17倍）</span>、<span class="y">7R⑤セクシーウィドー（26倍）</span>。
+  <span class="c">3頭とも中身は上位なのに、値段だけが付いている。</span></div>
   <div class="sig">By Claude AI</div>
 </div></div>
 </body></html>

diff --git a/notes/live/2026-08-18/kawasaki_1_5.html b/notes/live/2026-08-18/kawasaki_1_5.html
@@ -1,8 +1,8 @@
 <!doctype html><html><head><meta charset="utf-8"><style>
   * { margin:0; padding:0; box-sizing:border-box; font-family:'WenQuanYi Zen Hei',sans-serif; }
-  body { background:#0a4f96; }
+  body { background:#0d4a2b; }
   .card { width:1400px; position:relative; overflow:hidden;
-          background:radial-gradient(circle at 50% 6%, #2a8fd8 0%, #1173c4 26%, #0a58a6 62%, #084b90 100%); padding:34px 40px 26px; }
+          background:radial-gradient(circle at 50% 6%, #2fa365 0%, #158a4d 26%, #0b6b38 62%, #0d4a2b 100%); padding:34px 40px 26px; }
   .rays { position:absolute; inset:-40% -10% -10% -10%; pointer-events:none;
           background:repeating-conic-gradient(from 0deg at 50% 10%,
             rgba(255,255,255,.075) 0deg 3.2deg, rgba(255,255,255,0) 3.2deg 7.4deg); }
@@ -12,9 +12,9 @@
   .titleline { position:relative; display:flex; align-items:center; margin-top:6px; }
   .titleline .bdg { position:absolute; left:50%; transform:translateX(-50%); }
   .title { color:#fff; font-size:52px; font-weight:900; letter-spacing:1px; text-shadow:0 3px 10px rgba(0,0,0,.28); }
-  .bdg { background:#ffd83b; color:#0a3f78; font-size:34px; font-weight:900; padding:3px 18px; border-radius:11px; box-shadow:0 3px 0 #d9a800; }
+  .bdg { background:#ffd83b; color:#0d4a2b; font-size:34px; font-weight:900; padding:3px 18px; border-radius:11px; box-shadow:0 3px 0 #c99400; }
   .lead { color:#fff; font-size:18px; font-weight:700; margin-top:9px; }
-  .lead .y{color:#ffd83b;} .lead .c{color:#8fe3ff;}
+  .lead .y{color:#ffd83b;} .lead .c{color:#9fe8bf;}
 
   .cols { display:flex; margin:20px 0 7px; padding:0 8px; color:#cfe8ff; font-size:15px; font-weight:800; }
   .cR{flex:0 0 104px;} .cH{flex:0 0 386px;} .cA{flex:0 0 330px;} .cM{flex:1;}
@@ -23,21 +23,21 @@
          margin-bottom:12px; padding:13px 16px; box-shadow:0 6px 16px rgba(0,0,0,.2); }
   .rN { flex:0 0 104px; display:flex; flex-direction:column; justify-content:center; align-items:center; }
   .rN .n { color:#c92a2a; font-size:33px; font-weight:900; line-height:1; }
-  .rN .d { color:#5a6b7d; font-size:13px; font-weight:800; margin-top:4px; }
+  .rN .d { color:#5a7d68; font-size:13px; font-weight:800; margin-top:4px; }
   .hm { flex:0 0 386px; display:flex; align-items:center; gap:11px; padding-left:6px; }
   .at { flex:0 0 330px; display:flex; align-items:center; gap:10px; }
   .mk { font-size:27px; font-weight:900; color:#c92a2a; }
-  .mk2 { font-size:20px; font-weight:900; color:#1b8fd0; }
-  .nm { font-size:25px; font-weight:900; color:#10375e; letter-spacing:.5px; }
-  .nm2 { font-size:21px; font-weight:900; color:#10375e; }
+  .mk2 { font-size:20px; font-weight:900; color:#0b7a45; }
+  .nm { font-size:25px; font-weight:900; color:#0f3d26; letter-spacing:.5px; }
+  .nm2 { font-size:21px; font-weight:900; color:#0f3d26; }
   .fire { font-size:26px; }
-  .memo { flex:1; color:#3c4a58; font-size:15px; line-height:1.6; padding-left:16px; border-left:1px solid #dfe8f0; align-self:center; }
-  .memo b { color:#0a58a6; } .memo .r { color:#c92a2a; font-weight:900; }
+  .memo { flex:1; color:#3c4a42; font-size:15px; line-height:1.6; padding-left:16px; border-left:1px solid #dfefe6; align-self:center; }
+  .memo b { color:#0b6b38; } .memo .r { color:#c92a2a; font-weight:900; }
 
-  .foot { margin-top:6px; background:#0b2b4d; border:3px solid #ffd83b; border-radius:15px;
+  .foot { margin-top:6px; background:#062a19; border:3px solid #ffd83b; border-radius:15px;
           padding:15px 22px; color:#fff; font-size:19px; font-weight:800; }
-  .foot .y{color:#ffd83b;} .foot .c{color:#8fe3ff;}
-  .sig { text-align:right; color:#dbeaf7; font-size:17px; font-weight:800; margin-top:16px; }
+  .foot .y{color:#ffd83b;} .foot .c{color:#9fe8bf;}
+  .sig { text-align:right; color:#d6f2e2; font-size:17px; font-weight:800; margin-top:16px; }
 </style></head>
 <body>
 <div class="card"><div class="rays"></div><div class="inner">

diff --git a/notes/live/2026-08-18/README.md b/notes/live/2026-08-18/README.md
@@ -122,3 +122,55 @@
 - 本線 6×6×6＝**216点・10,800円**：10R ⑪③→⑧⑥⑤ ／ 11R ⑦③→①⑨⑧ ／ 12R ⑤⑥→②⑦⑧
 - 絞り：1着を **⑪・⑦・⑤** に固定 → 3×3×3＝**27点・1,350円**
 - ⚠ **10Rは⑪の中身が薄い。絞るなら1着を⑪⑧の2頭に組み替える。**
+
+---
+
+# 【オッズ確定版 2026-08-17】後半6R〜12R ＋ トリプル馬単
+
+カラーテーマを**ターフグリーン**に統一（本人指定）。オッズ開放を受けて**◎が6番人気以下かを再確認**した。
+
+## ◎の人気（実数）
+| R | ◎ | 人気 | オッズ | 判定 |
+|---|---|---|---|---|
+| 6R | ⑥オリジン | 5人気 | 38.1 | ○ 8頭立てで38倍なら十分 |
+| 7R | ③スウィートドリーム | 4人気 | 6.4 | △ 人気側だが中身が断然 |
+| 8R | ⑫マイカグラ | **10人気** | **45.2** | ◎ |
+| 9R | ⑥レイニングキング | 6人気 | 8.9 | ○ |
+| 10R | ⑪エムティパル | **12人気＝最低** | **57.9** | ◎ |
+| 11R | ⑦オリコウデレガンス | 5人気 | 10.0 | ○ |
+| 12R | ⑤リコーベレッタ | **8人気＝最低** | **41.4** | ◎ |
+
+→ **◎7頭のうち6頭が5番人気以下。**7Rだけ4番人気だが、中身（前走9番人気で11番手から4角先頭まで押し上げ／下地6.2本物2）が断然のため据え置いた。
+
+## ★○を5レースで差し替え（人気側に寄っていたため）
+| R | 旧○ | 人気 | → | 新○ | 人気 | 差し替えの理由 |
+|---|---|---|---|---|---|---|
+| 7R | ⑧ビップジェシー | 5人気8.0 | → | **⑤セクシーウィドー** | **10人気26.5** | 441kgの小型・踏1・5/12を9番人気で4角3番手から2着・1500→1400短縮 |
+| 8R | ③ラッキーカムカム | **2人気3.0** | → | **⑧ラックナシェード** | **7人気26.4** | エッジ4・457kgの小型・前走の上がり37.0は◎⑫に次ぐ2位 |
+| 9R | ②ブランディストック | **1人気4.1** | → | **⑨オニノタマゴ** | **7人気21.9** | 6/19の重を3-3-3-3で4着・4/9は4角2番手まで押し上げ5着 |
+| 11R | ①カンデラリア | 4人気8.8 | → | **⑨ピーエムナナ** | **8人気17.2** | **下地9.8＝9頭で最高値**・7/30を10番手から3着 |
+| 12R | ②ピーターライズ | **2人気3.1** | → | **⑧サラサチャレンジ** | **6人気16.3** | 斤53kgで8頭最軽量・7/30を4角先頭・佐賀1400を逃げて4着(上がり38.9) |
+
+→ **◎○14頭のうち11頭が6番人気以下。**旧○は全部ヒモに残した。
+
+**11Rの差し替えは、自分で指摘していた基準違反の是正でもある**
+（「◎が1位を取っていない層の1位を○に置く」なら、11Rの○は下地9.8の⑨であるべきだった）。
+
+## ⚠ 危険な人気馬
+- **11R ⑥オペラプラージュ（1番人気2.9倍）** … 中央で**12着・10着・15着**と大敗続きの転入初戦。
+  4角位置も11番手・下げ7で、この競馬場の形と噛み合わない。保険にも使わず、③スカイアクロス（2番人気）を保険にした。
+
+## トリプル馬単（オッズ確定版）
+| R | 1着本命 | 人気 | 1着保険 | 2着相手 |
+|---|---|---|---|---|
+| 10R | ⑪エムティパル | **12人気57.9** | ②アタゴテンジン（1人気2.9・3走とも4角先頭） | ⑧⑥③⑤ |
+| 11R | ⑦オリコウデレガンス | 5人気10.0 | ③スカイアクロス（2人気4.2） | ⑨①⑧④ |
+| 12R | ⑤リコーベレッタ | **8人気41.4** | ⑥ジーティーアグリム（1人気2.5・3連勝中） | ⑧②⑦③ |
+
+- 本線 6×6×6＝**216点・10,800円**：10R ⑪②→⑧⑥③ ／ 11R ⑦③→⑨①⑧ ／ 12R ⑤⑥→⑧②⑦
+- 絞り：1着を **⑪・⑦・⑤** に固定 → 3×3×3＝**27点・1,350円**
+- ⚠ 10Rは⑪(57.9倍)と⑧(53.8倍)がどちらも2桁人気。絞るなら1着を**⑪⑧**の2頭に組み替える。
+
+## カラーテーマ
+`theme/` に6パターン（ブルー／クリムゾン／パープル／ターフグリーン／ブラック×ゴールド／サンセット）。
+**本番はターフグリーンに確定**（1R〜5R・6R〜12R・トリプル馬単すべて統一済み）。
